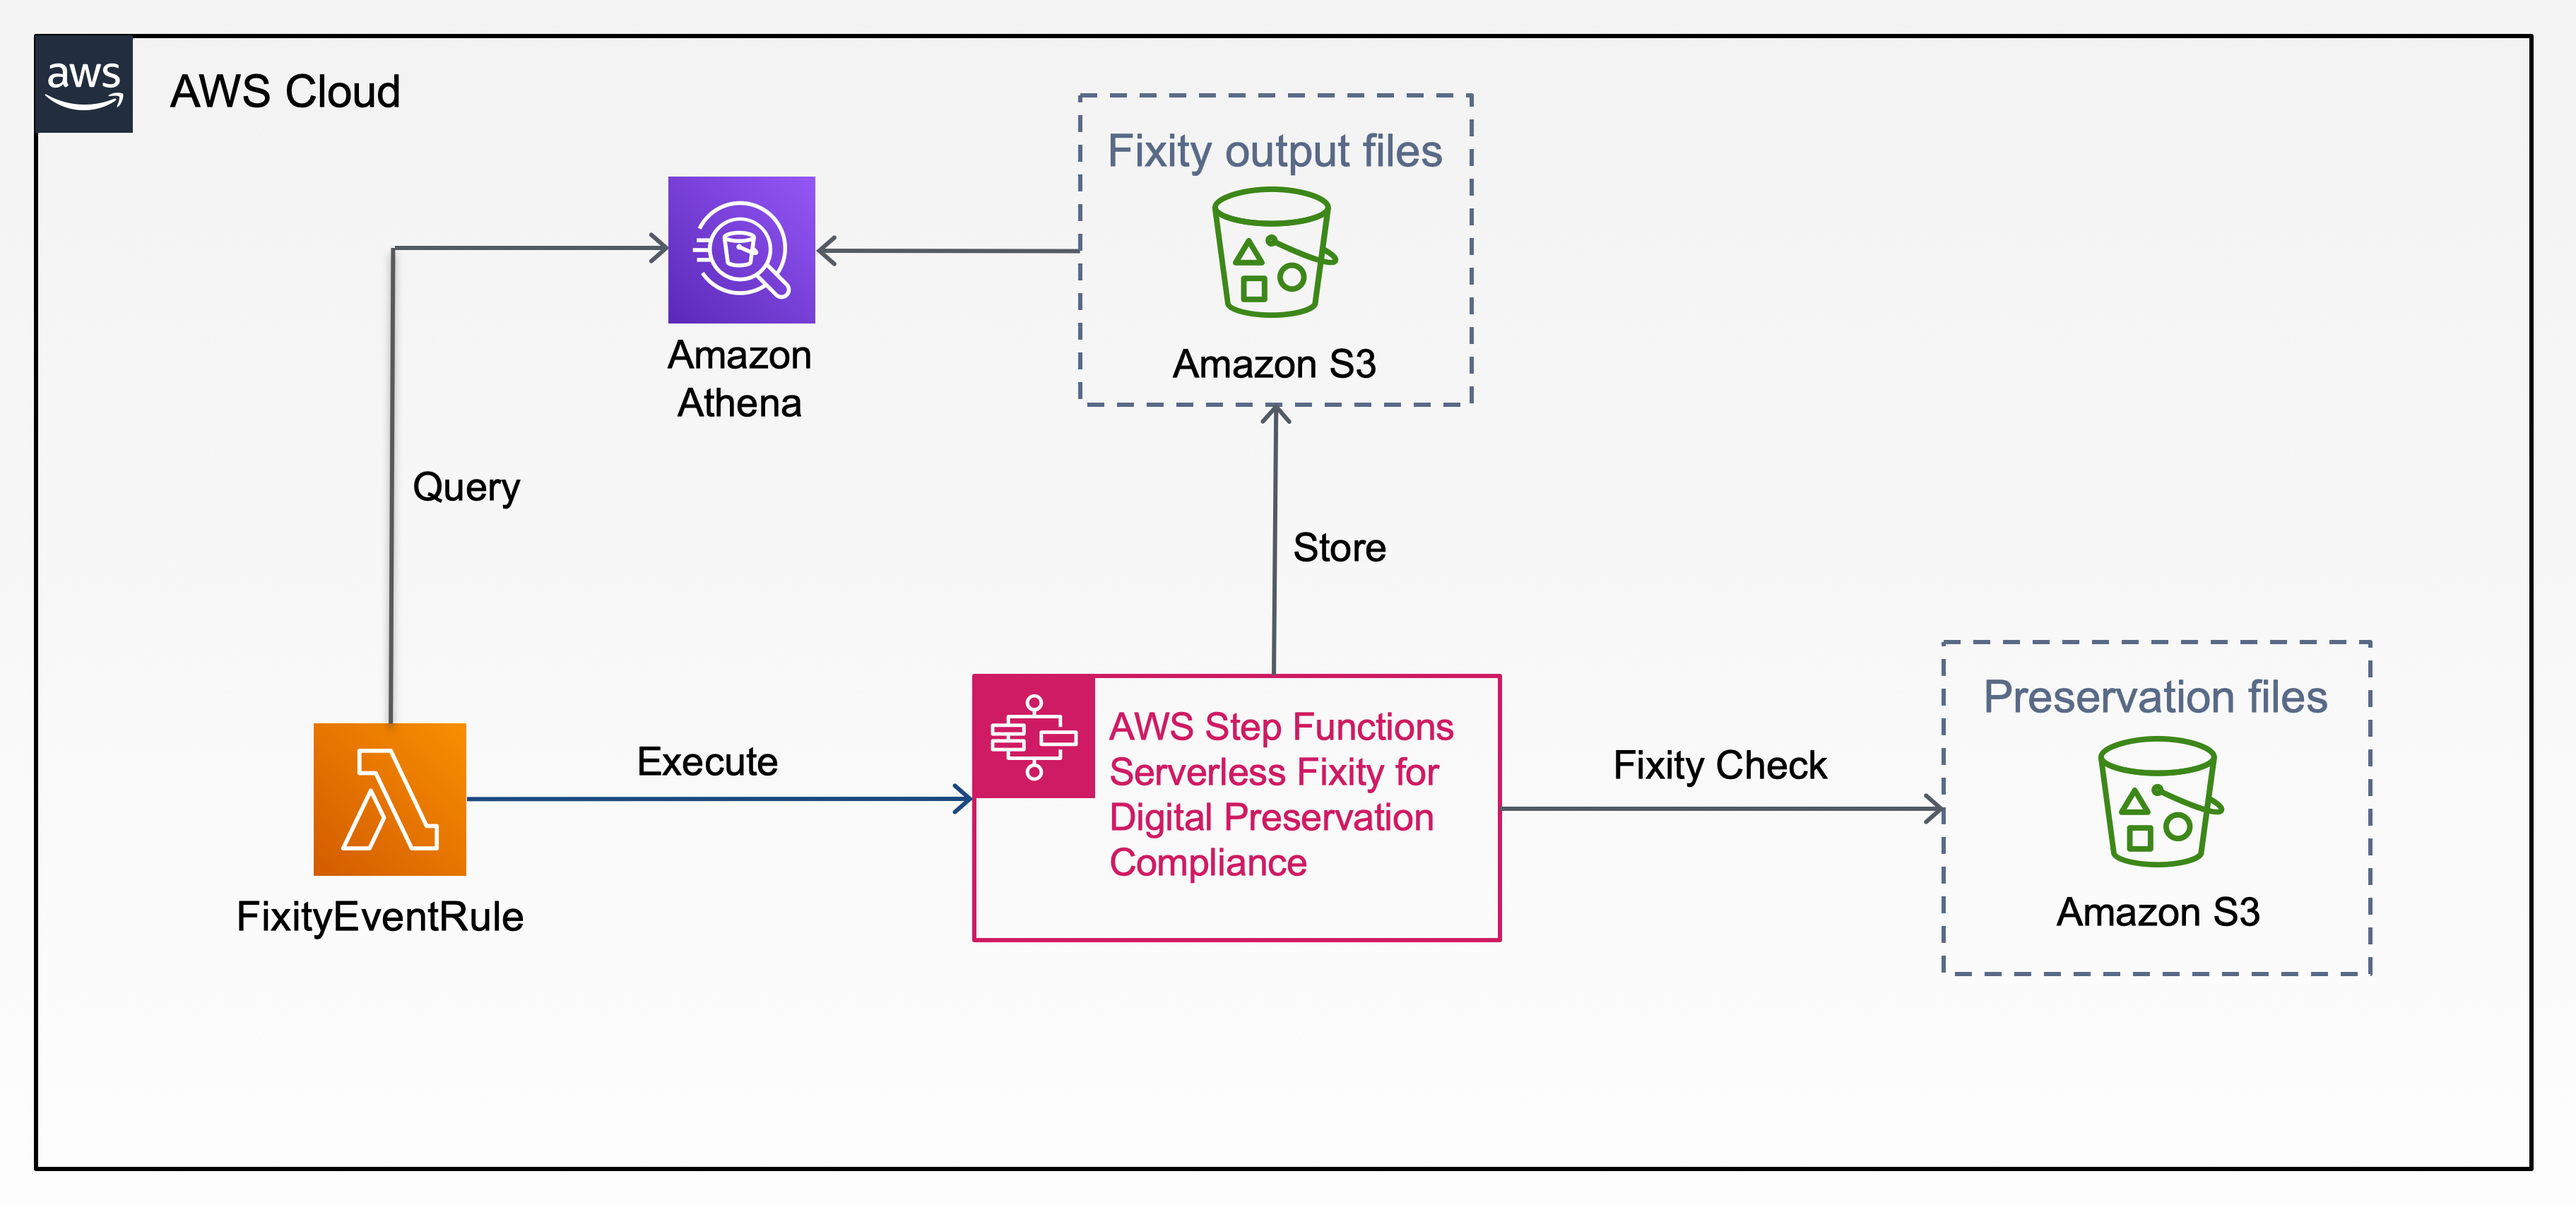
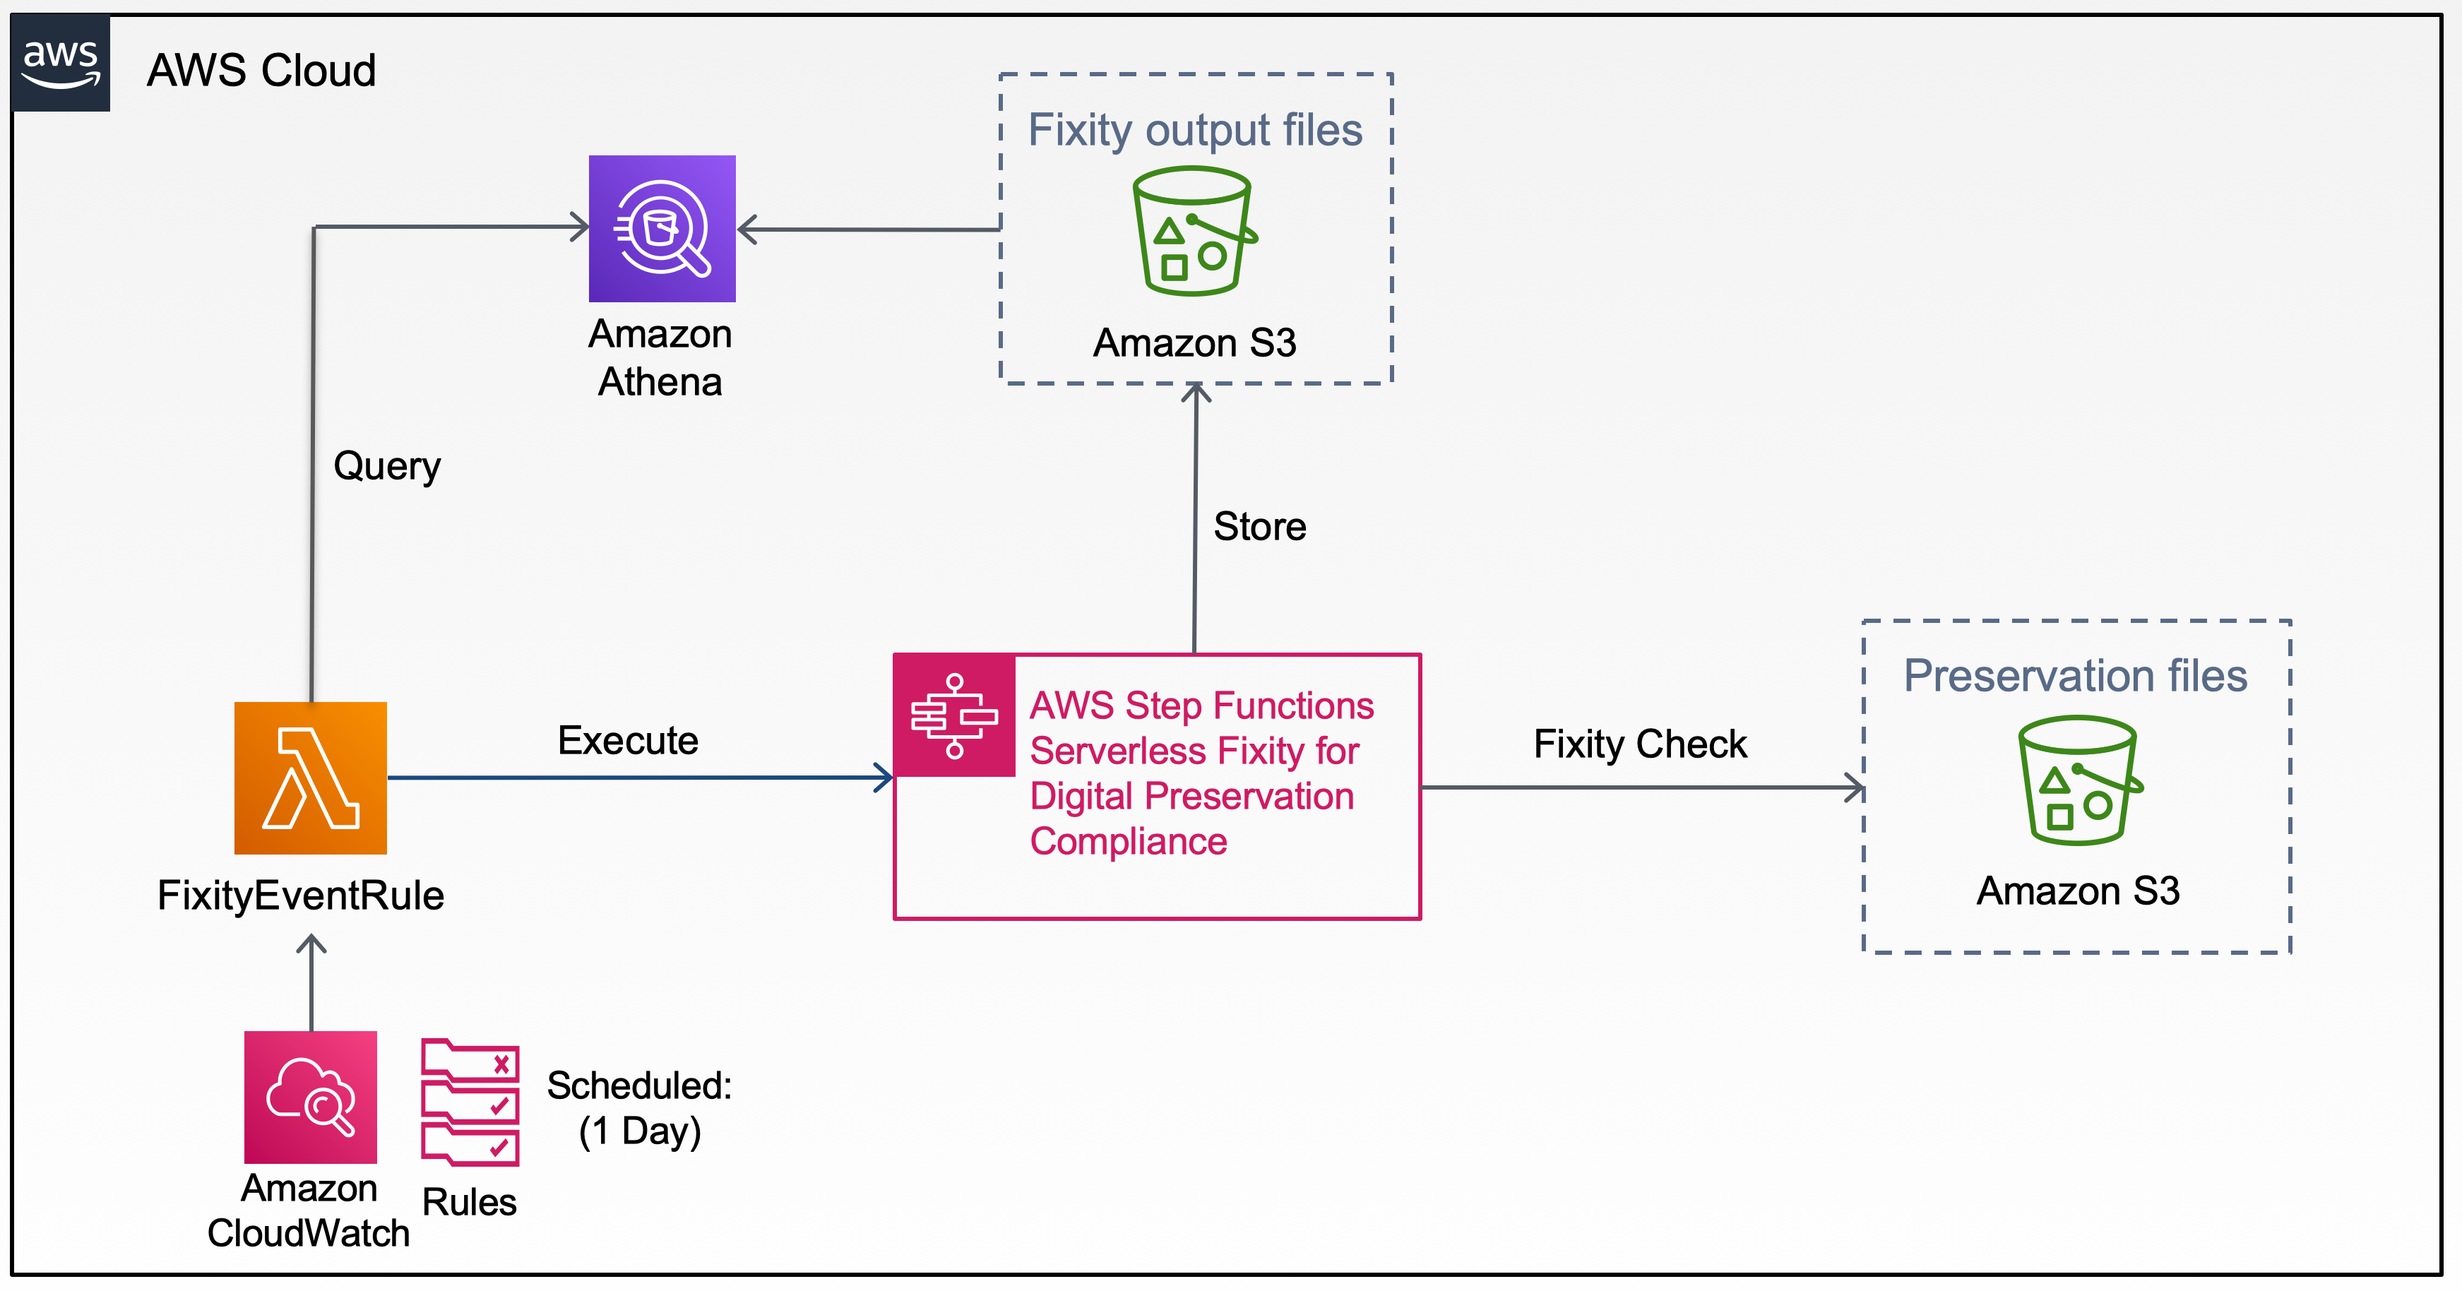
add cloudwatch rule

Changed region(s): [[0.0, 0.0, 1.0, 0.9941], [0.4028, 0.7767, 0.5577, 0.8077]]

diff --git a/README.md b/README.md
@@ -10,7 +10,12 @@ This project contains source code and supporting files for a serverless applicat
 The application uses several AWS resources, including Lambda functions, Athema, CloudWatch, and Step Functions. These resources are defined in the `template.yaml` file in this project.
 
 ## Architecure Overview
+
 <img src="imgs/overview.png" width="600">
+
+Cloudwatch executes FixityEventRule Lambda function everyday. FixityEventRule queries Athena, generate step functions tasks, and executes step functions. Step functions do fixity checks for the preservation files stores in S3 and store fixity check results to S3.
+
+See [DLP Fixity Service](https://github.com/vt-digital-libraries-platform/FixityService) for the detail implementation of the AWS step functions serverless fixity for digital preservation compliance.
 
 ## Deploy the FixityEventRule application
 
@@ -35,10 +40,11 @@ Above command will package the application and upload it to the S3 bucket you sp
 
 Run the following in your shell to deploy the application to AWS:
 ```bash
-sam deploy --template-file packaged.yaml --stack-name STACKNAME --s3-bucket BUCKETNAME --parameter-overrides 'DatabaseName=databasename TableName=tablename ResultBucket=bucketname FixityOutputBucket=bucketname StateMachineName=statemachinename StateMachineArn=statemachinearn DayPeriod=90 Region=us-east-1' --capabilities CAPABILITY_IAM CAPABILITY_NAMED_IAM --region us-east-1
+sam deploy --template-file packaged.yaml --stack-name STACKNAME --s3-bucket BUCKETNAME --parameter-overrides 'DatabaseName=databasename TableName=tablename ResultBucket=bucketname FixityOutputBucket=bucketname StateMachineName=statemachinename WorkGroupName=workgroupname DayPeriod=90 Region=us-east-1' --capabilities CAPABILITY_IAM CAPABILITY_NAMED_IAM --region us-east-1
 ```
 
 ### Environment variables
+
 | Key | Value |
 |----------|:-------------:|
 | DatabaseName | Athena Database Name |
@@ -46,7 +52,7 @@ sam deploy --template-file packaged.yaml --stack-name STACKNAME --s3-bucket BUCK
 | ResultBucket | S3 Bucket that stores Athena query result |
 | FixityOutputBucket | S3 Bucket that stores Fixity output result |
 | StateMachineName | State Machine Name |
-| StateMachineArn | State Machine Arn |
+| WorkGroupName | Athena WorkGroup Name |
 | DayPeriod | 90 |
 | REGION | us-east-1 |
 
@@ -54,6 +60,7 @@ sam deploy --template-file packaged.yaml --stack-name STACKNAME --s3-bucket BUCK
 * **AWS Region**: The AWS region you want to deploy your app to.
 
 ## Run the lamdba function through bash
+
 ```bash
 aws lambda invoke --function-name LambdaFunctioName out --log-type Tail --query 'LogResult' --output text |  base64 -d
 ```
